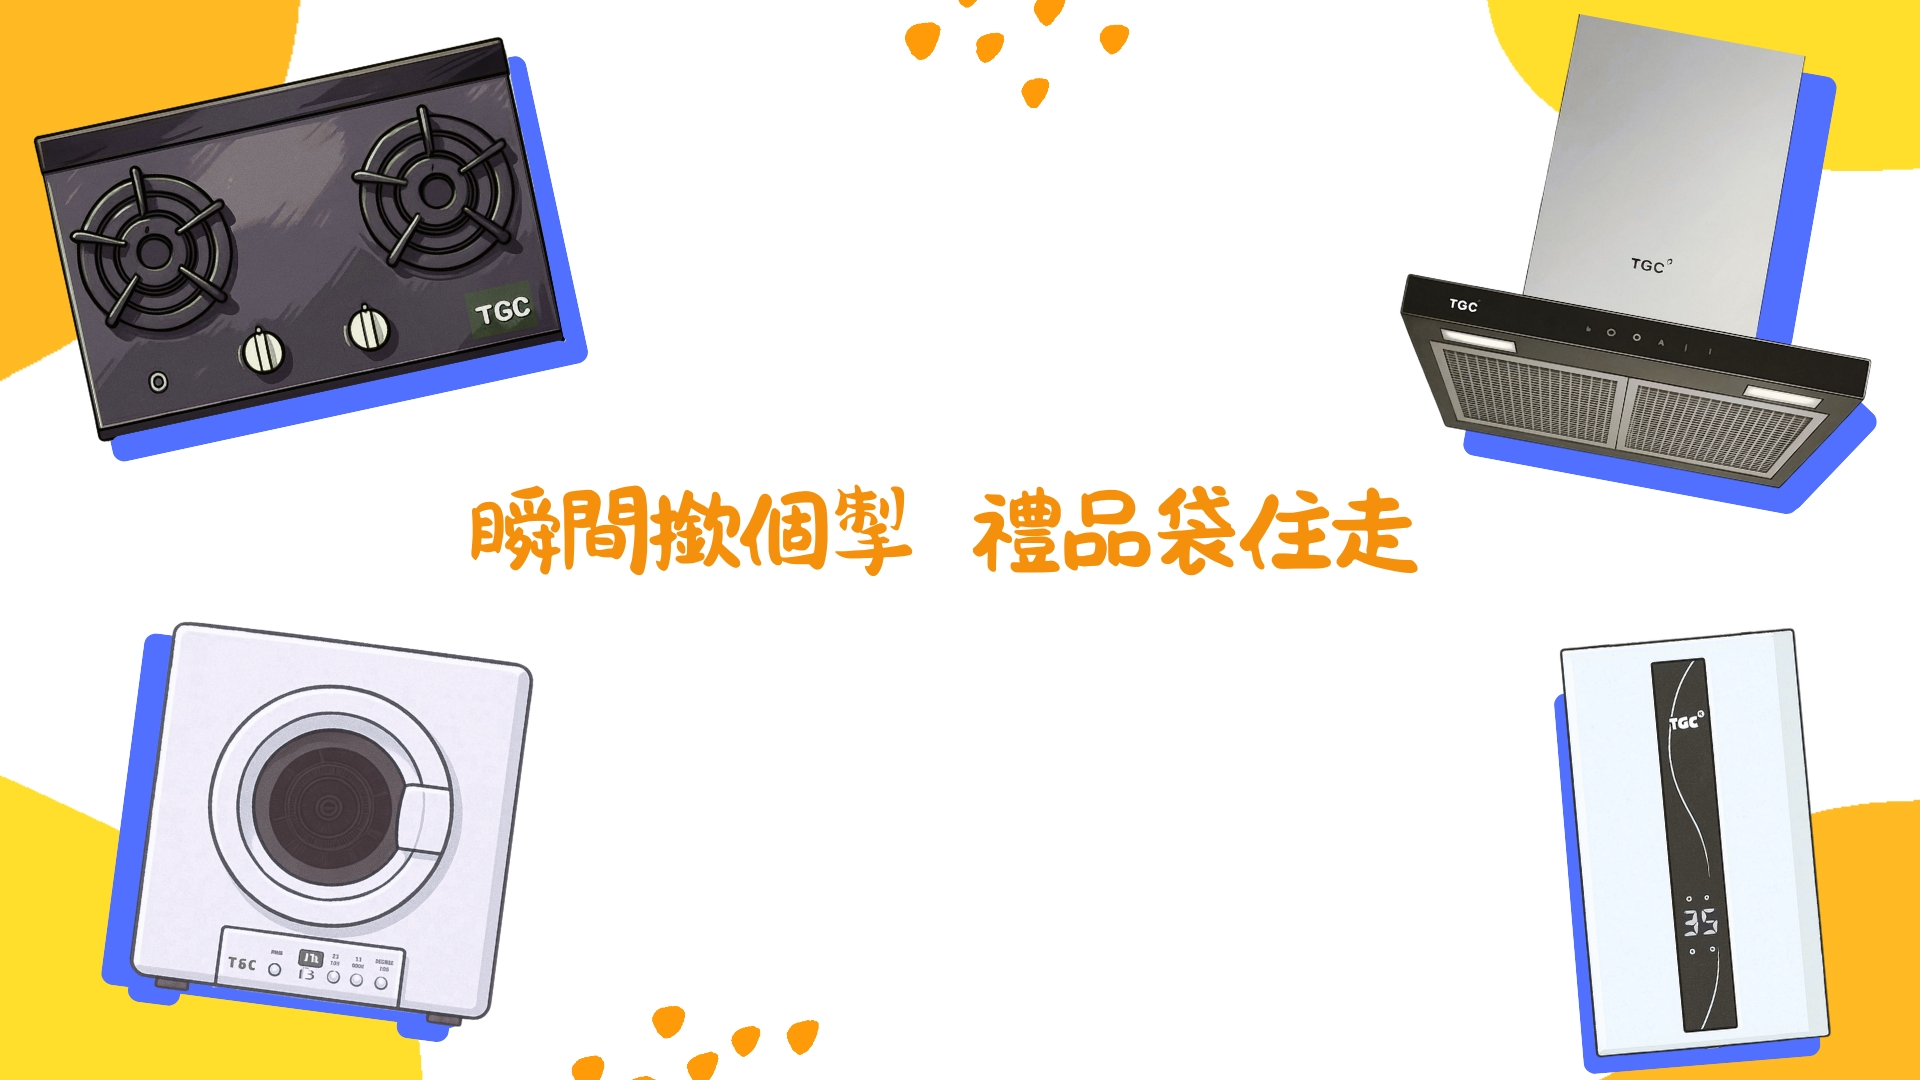
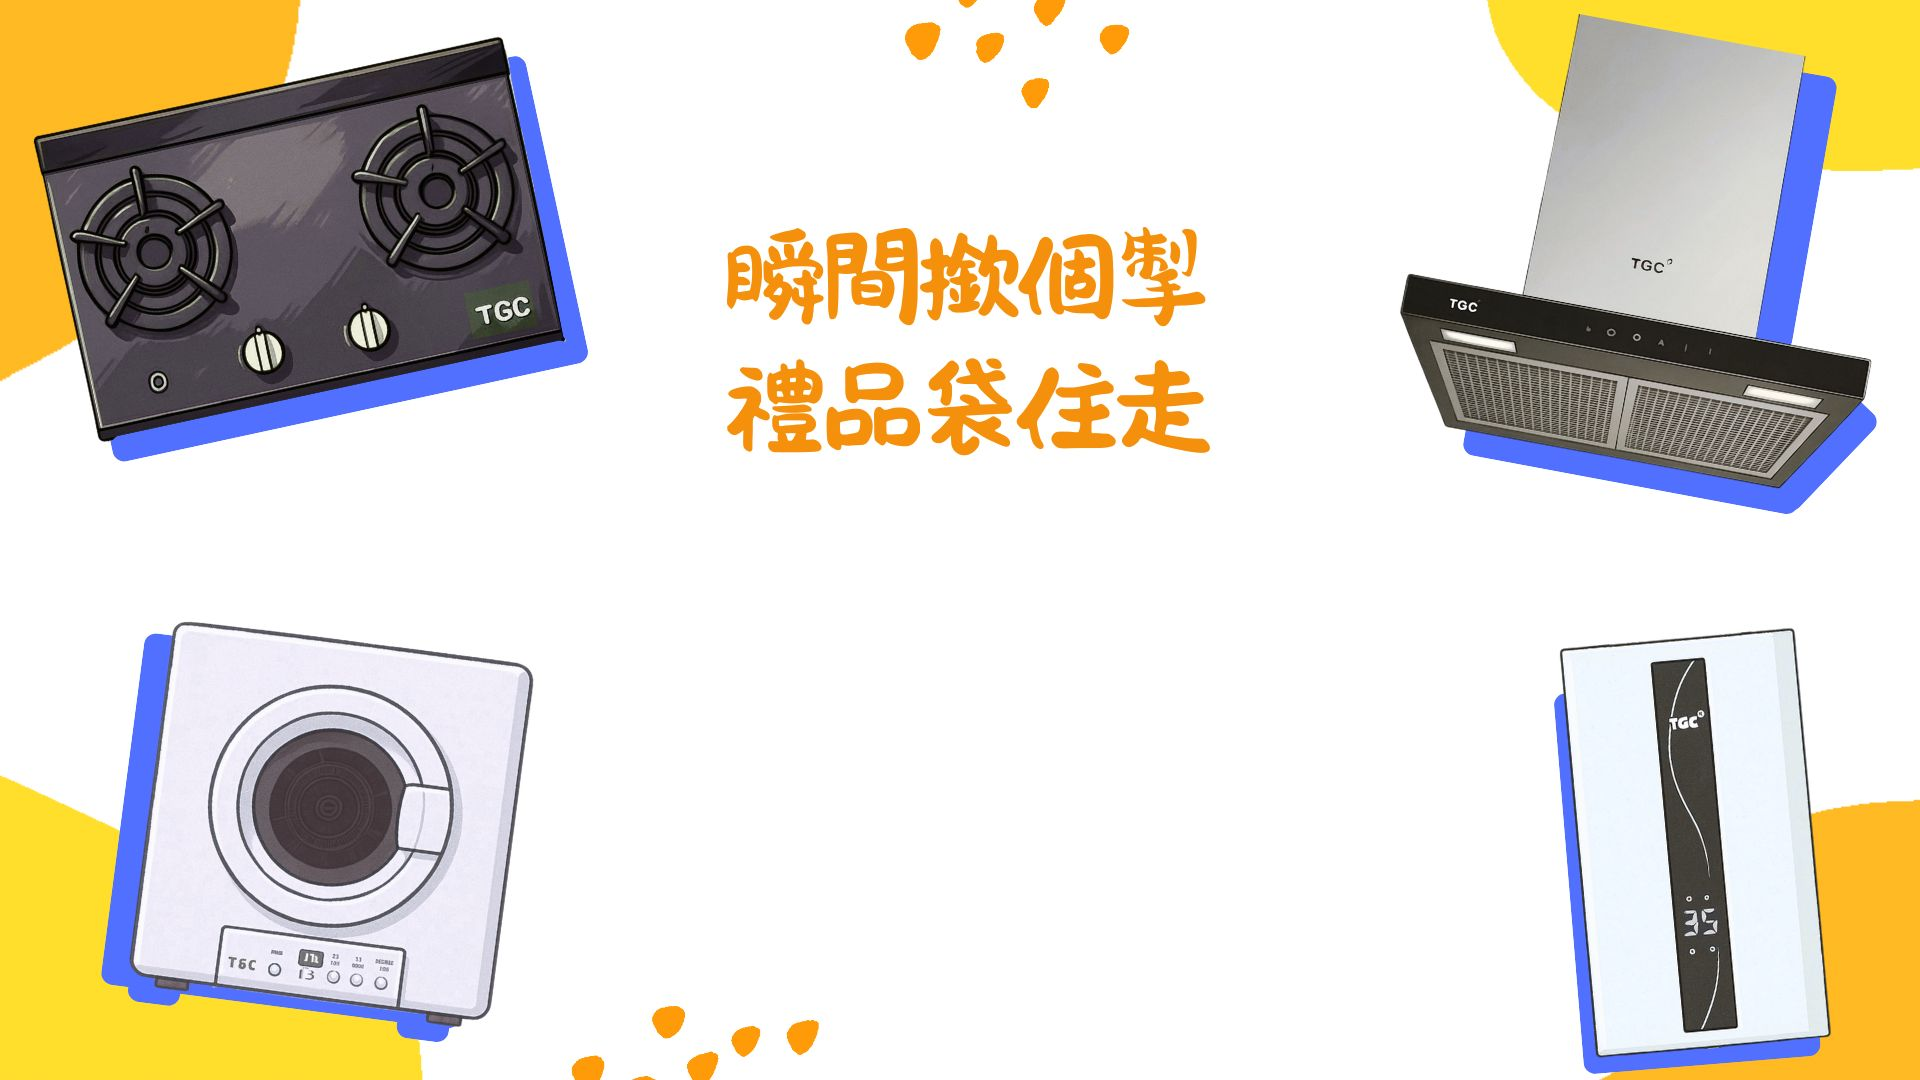
fixed bg and display

Changed region(s): [[0.2188, 0.3361, 0.75, 0.55], [0.375, 0.2139, 0.625, 0.3056]]

diff --git a/main.js b/main.js
@@ -32,19 +32,19 @@ class MainScene extends Phaser.Scene {
     // --- 美化開始畫面 ---
     // 移除橢圓形面板和標題，只保留開始按鈕
 
-    // 綠色圓角「開始」按鈕
+    // 綠色圓形「開始」按鈕
     this.startBtnBg = this.add.graphics();
-    const btnW = 160, btnH = 64, btnR = 32;
+    const btnRadius = 80;
     this.startBtnBg.fillStyle(0xb6e86b, 1);
-    this.startBtnBg.fillRoundedRect(this.centerX - btnW/2, this.centerY + 130, btnW, btnH, btnR);
-    this.startBtnBg.setInteractive(new Phaser.Geom.Rectangle(this.centerX - btnW/2, this.centerY + 130, btnW, btnH), Phaser.Geom.Rectangle.Contains);
+    this.startBtnBg.fillCircle(this.centerX, this.scale.height - 150, btnRadius);
+    this.startBtnBg.setInteractive(new Phaser.Geom.Circle(this.centerX, this.scale.height - 150, btnRadius), Phaser.Geom.Circle.Contains);
     this.startBtnBg.on('pointerdown', () => {
       if (this.state === 'idle') this.startCountdown();
       else this.resetToHome();
     });
     this.startBtnBg.setDepth(1);
 
-    this.startBtn = this.add.text(this.centerX, this.centerY + 130 + btnH/2, '開始', {
+    this.startBtn = this.add.text(this.centerX, this.scale.height - 150, '開始', {
       fontSize: '36px', color: '#fff', fontFamily: 'Noto Sans TC', fontStyle: 'bold'
     }).setOrigin(0.5).setDepth(2);
     this.startBtn.setInteractive({ useHandCursor: true });
@@ -64,17 +64,30 @@ class MainScene extends Phaser.Scene {
     this.startBtn.on('pointerout', () => this.startBtn.setColor('#fff'));
 
     // 其他遊戲用文字（預設隱藏）
-    this.infoText = this.add.text(this.centerX, this.centerY + 220, '', {
+    this.infoText = this.add.text(this.centerX, this.centerY + 120, '', {
+      fontSize: '80px', color: '#ff9900', fontFamily: 'Noto Sans TC'
+    }).setOrigin(0.5).setVisible(false).setResolution(2);
+
+    // 倒數文字（較小字體）
+    this.countdownText = this.add.text(this.centerX, this.centerY + 120, '', {
       fontSize: '36px', color: '#ff9900', fontFamily: 'Noto Sans TC'
     }).setOrigin(0.5).setVisible(false).setResolution(2);
 
-    this.resultText = this.add.text(this.centerX, this.centerY + 280, '', {
-      fontSize: '32px', color: '#b6e86b', fontFamily: 'Noto Sans TC'
+    this.resultText = this.add.text(this.centerX, this.centerY + 120, '', {
+      fontSize: '80px', color: '#b6e86b', fontFamily: 'Noto Sans TC'
     }).setOrigin(0.5).setVisible(false);
 
-    this.stopBtn = this.add.text(this.centerX, this.centerY + 150, '停止', {
-      fontSize: '36px', color: '#fff', backgroundColor: '#dc3545', padding: {x:24, y:12}, fontFamily: 'Noto Sans TC', borderRadius: 12
-    }).setOrigin(0.5).setInteractive().setVisible(false);
+    // 紅色圓形「停止」按鈕
+    this.stopBtnBg = this.add.graphics();
+    this.stopBtnBg.fillStyle(0xdc3545, 1);
+    this.stopBtnBg.fillCircle(this.centerX, this.scale.height - 150, btnRadius);
+    this.stopBtnBg.setInteractive(new Phaser.Geom.Circle(this.centerX, this.scale.height - 150, btnRadius), Phaser.Geom.Circle.Contains);
+    this.stopBtnBg.on('pointerdown', () => this.stopGame());
+    this.stopBtnBg.setDepth(1).setVisible(false);
+
+    this.stopBtn = this.add.text(this.centerX, this.scale.height - 150, '停止', {
+      fontSize: '36px', color: '#fff', fontFamily: 'Noto Sans TC', fontStyle: 'bold'
+    }).setOrigin(0.5).setInteractive().setVisible(false).setDepth(2);
     this.stopBtn.on('pointerdown', () => this.stopGame());
 
     // 彩帶群組
@@ -189,21 +202,22 @@ class MainScene extends Phaser.Scene {
     this.startBtn.setVisible(false);
     this.startBtnBg.setVisible(false);
     // 顯示倒數
-    this.infoText.setVisible(true);
+    this.countdownText.setVisible(true);
+    this.infoText.setVisible(false);
     this.resultText.setVisible(false);
     let count = 3;
-    this.infoText.setText(count);
-    this.infoText.setScale(1);
+    this.countdownText.setText(count);
+    this.countdownText.setScale(1);
     this.sound.play('pop');
     this.tweens.add({
-      targets: this.infoText,
+      targets: this.countdownText,
       scale: 2.5,
       duration: 300,
       yoyo: true,
       ease: 'Quad.easeOut',
       onUpdate: () => {
         // 確保縮放時保持清晰度
-        this.infoText.setScale(Math.round(this.infoText.scale * 100) / 100);
+        this.countdownText.setScale(Math.round(this.countdownText.scale * 100) / 100);
       }
     });
     this.countdownEvent = this.time.addEvent({
@@ -212,34 +226,34 @@ class MainScene extends Phaser.Scene {
       callback: () => {
         count--;
         if (count > 0) {
-          this.infoText.setText(count);
-          this.infoText.setScale(1);
+          this.countdownText.setText(count);
+          this.countdownText.setScale(1);
           this.sound.play('pop');
           this.tweens.add({
-            targets: this.infoText,
+            targets: this.countdownText,
             scale: 2.5,
             duration: 300,
             yoyo: true,
             ease: 'Quad.easeOut',
             onUpdate: () => {
               // 確保縮放時保持清晰度
-              this.infoText.setScale(Math.round(this.infoText.scale * 100) / 100);
+              this.countdownText.setScale(Math.round(this.countdownText.scale * 100) / 100);
             }
           });
         } else {
-          this.infoText.setText('Start!');
-          this.infoText.setScale(1);
+          this.countdownText.setText('Start!');
+          this.countdownText.setScale(1);
           this.sound.play('pop');
           this.sound.play('whistle'); // 播放哨子聲
           this.tweens.add({
-            targets: this.infoText,
+            targets: this.countdownText,
             scale: 2.5,
             duration: 300,
             yoyo: true,
             ease: 'Quad.easeOut',
             onUpdate: () => {
               // 確保縮放時保持清晰度
-              this.infoText.setScale(Math.round(this.infoText.scale * 100) / 100);
+              this.countdownText.setScale(Math.round(this.countdownText.scale * 100) / 100);
             }
           });
           this.time.delayedCall(600, () => this.startGame());
@@ -250,8 +264,11 @@ class MainScene extends Phaser.Scene {
 
   startGame() {
     this.state = 'running';
-    this.infoText.setText('0.00');
+    this.countdownText.setVisible(false);
+    this.infoText.setText('0');
+    this.infoText.setVisible(true);
     this.stopBtn.setVisible(true);
+    this.stopBtnBg.setVisible(true);
     this.resultText.setVisible(false);
     this.startTime = this.time.now;
     this.elapsed = 0;
@@ -277,15 +294,16 @@ class MainScene extends Phaser.Scene {
     if (this.state !== 'running') return;
     this.state = 'stopped';
     this.stopBtn.setVisible(false);
+    this.stopBtnBg.setVisible(false);
     if (this.tictacTimer) this.tictacTimer.remove();
     if (this.tickTimer) this.tickTimer.remove();
     if (this.tictacSound) this.tictacSound.stop();
     if (this.tickSound) this.tickSound.stop();
     this.elapsed = (this.time.now - this.startTime) / 1000;
-    this.infoText.setText('結果').setVisible(true);
     // 以0.1秒為單位，1秒顯示為10
     const displayTime = Math.floor(this.elapsed * 10);
-    this.resultText.setText(`你按下了 ${displayTime}`).setVisible(true);
+    this.infoText.setVisible(false);
+    this.resultText.setText(displayTime.toString()).setVisible(true);
     this.startBtn.setText('返回首頁').setVisible(true);
     this.startBtnBg.setVisible(true);
     this.sound.play('clap'); // 播放拍手聲效
